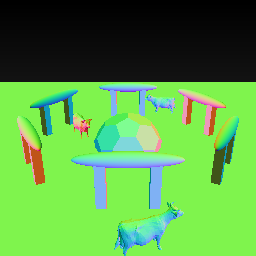
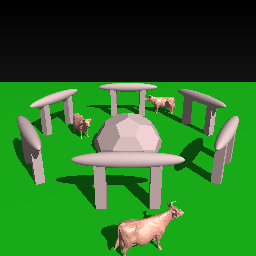
finished!

diff --git a/A4/GeometryNode.cpp b/A4/GeometryNode.cpp
@@ -42,8 +42,10 @@ bool GeometryNode::intersect(Ray& ray, Intersection& isect){
 	if(result){
 		isect.material = m_material;
 		isect.position = glm::vec3(trans * glm::vec4(isect.position, 1.0f));
-		isect.normal = glm::normalize(glm::vec3(invtrans * glm::vec4(isect.normal, 0.0f)));
-	
+		
+		glm::mat3 normalMatrix = glm::transpose(glm::inverse(glm::mat3(trans)));
+		isect.normal = glm::normalize(normalMatrix * isect.normal);
+		
 		ray.maxt = transRay.maxt / directionScale;
 	}
 	

diff --git a/A4/SceneNode.cpp b/A4/SceneNode.cpp
@@ -164,8 +164,8 @@ bool SceneNode::intersect(Ray& ray, Intersection& isect){
     
 	if(hit){
 		isect.position = glm::vec3(trans * glm::vec4(isect.position, 1.0f));
-		isect.normal = glm::normalize(glm::vec3(invtrans * glm::vec4(isect.normal, 0.0f)));
-	
+		glm::mat3 normalMatrix = glm::transpose(glm::inverse(glm::mat3(trans)));
+		isect.normal = glm::normalize(normalMatrix * isect.normal);
 		ray.maxt = transRay.maxt / directionScale;
 	}
 

diff --git a/A4/A4.cpp b/A4/A4.cpp
@@ -20,7 +20,7 @@ glm::vec3 TraceRay(
 	}
 
 	// [DEBUG] Normal Color
-	return 0.5f * intersection.normal + 0.5f;
+	// return 0.5f * intersection.normal + 0.5f;
 
 	PhongMaterial *phongMaterial = static_cast<PhongMaterial *>(intersection.material);
 	glm::vec3 color = ambient * phongMaterial->m_kd;
